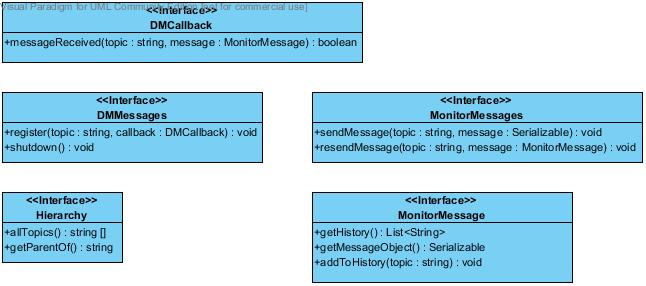
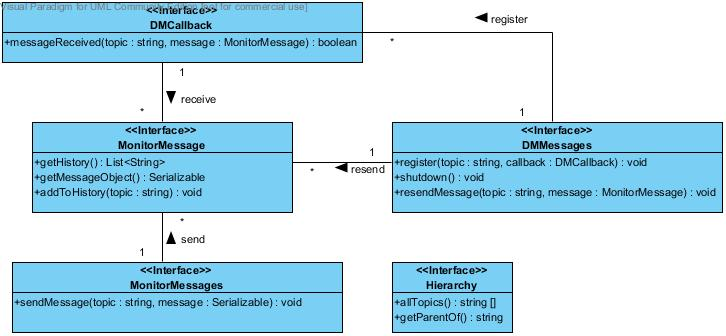
iFace changes + class diag update

diff --git a/src/main/java/at/tuwien/lsdc/DMMessagesImpl.java b/src/main/java/at/tuwien/lsdc/DMMessagesImpl.java
@@ -8,12 +8,14 @@ import java.util.List;
 import java.util.Map;
 
 import javax.jms.Connection;
+import javax.jms.DeliveryMode;
 import javax.jms.Destination;
 import javax.jms.ExceptionListener;
 import javax.jms.JMSException;
 import javax.jms.Message;
 import javax.jms.MessageConsumer;
 import javax.jms.MessageListener;
+import javax.jms.MessageProducer;
 import javax.jms.ObjectMessage;
 import javax.jms.Session;
 
@@ -31,11 +33,11 @@ public class DMMessagesImpl implements DMMessages, ExceptionListener {
     private Map<String, Listener> listeners = Collections.synchronizedMap(new HashMap<String, Listener>());
 
     private List<MessageConsumer> consumers = new ArrayList<MessageConsumer>();
+    
+    private Map<String, MessageProducer> producerCache;
 
     private Connection connection;
     private Session session;
-
-    private MonitorMessages sender = new MonitorMessagesImpl();
 
     public DMMessagesImpl(Hierarchy hierarchy) {
         String[] allTopics = hierarchy.allTopics();
@@ -58,7 +60,7 @@ public class DMMessagesImpl implements DMMessages, ExceptionListener {
                 // Queue
 
                 MessageConsumer consumer = session.createConsumer(destination);
-                Listener listener = new Listener(topic, sender, hierarchy);
+                Listener listener = new Listener(topic, this, hierarchy);
                 consumer.setMessageListener(listener);
                 this.listeners.put(topic, listener);
                 System.out.println("Added Listener for Topic: " + topic);
@@ -95,18 +97,47 @@ public class DMMessagesImpl implements DMMessages, ExceptionListener {
             e.printStackTrace();
         }
     }
+    
+    @Override
+	public void resendMessage(String topic, MonitorMessage message) {
+    	message.addToHistory(topic);
+    	this.send(topic, message);		
+	}
+    
+    private void send(String topic, Serializable object) {
+        
+        try {
+            MessageProducer producer;
+            if(producerCache.containsKey(topic)) {
+            	producer = producerCache.get(topic);
+            } else {
+            	Destination destination = session.createTopic(topic);
+            	producer = session.createProducer(destination);
+            	producer.setDeliveryMode(DeliveryMode.NON_PERSISTENT);
+            	producerCache.put(topic, producer);
+            }
+
+            Message message = session.createObjectMessage(object);
+            producer.send(message);
+
+        } catch (JMSException e) {
+            // Should not happen
+            System.out.println("Initialization failed");
+            e.printStackTrace();
+        }
+    }
 
     private static class Listener implements MessageListener {
 
         private List<DMCallback> callbacks = new ArrayList<DMCallback>();
 
-        private final MonitorMessages sender;
+        private final DMMessages sender;
 
         private final String topic;
 
         private Hierarchy hierarchy;
 
-        public Listener(String topic, MonitorMessages sender, Hierarchy hierarchy) {
+        public Listener(String topic, DMMessages sender, Hierarchy hierarchy) {
             super();
             this.topic = topic;
             this.sender = sender;
@@ -121,6 +152,7 @@ public class DMMessagesImpl implements DMMessages, ExceptionListener {
                     try {
                         Serializable object = objectMessage.getObject();
                         if (object instanceof at.tuwien.lsdc.interfaces.MonitorMessage) {
+                        	System.out.println(((MonitorMessage)object).toString());
                             MonitorMessage monitorMessage = (MonitorMessage) object;
                             if (!callback.messageReceived(topic, monitorMessage)) {
                                 String parentOf = hierarchy.getParentOf(this.topic);
@@ -141,4 +173,5 @@ public class DMMessagesImpl implements DMMessages, ExceptionListener {
             this.callbacks.add(callback);
         }
     }
+
 }

diff --git a/src/main/java/at/tuwien/lsdc/MonitorMessagesImpl.java b/src/main/java/at/tuwien/lsdc/MonitorMessagesImpl.java
@@ -50,12 +50,6 @@ public class MonitorMessagesImpl implements MonitorMessages {
         this.send(topic, objectMessage);
     }
 
-    @Override
-    public void resendMessage(String topic, at.tuwien.lsdc.interfaces.MonitorMessage message) {
-        message.addToHistory(topic);
-        this.send(topic, message);
-    }
-
     private void send(String topic, Serializable object) {
         
         try {

diff --git a/src/main/java/at/tuwien/lsdc/interfaces/DMMessages.java b/src/main/java/at/tuwien/lsdc/interfaces/DMMessages.java
@@ -5,4 +5,6 @@ public interface DMMessages {
     void register(String topic, DMCallback callback);
 
     void shutdown();
+    
+    void resendMessage(String topic, MonitorMessage message);
 }

diff --git a/src/main/java/at/tuwien/lsdc/interfaces/MonitorMessages.java b/src/main/java/at/tuwien/lsdc/interfaces/MonitorMessages.java
@@ -6,5 +6,4 @@ public interface MonitorMessages {
 
     void sendMessage(String topic, Serializable message);
 
-    void resendMessage(String topic, MonitorMessage message);
 }
